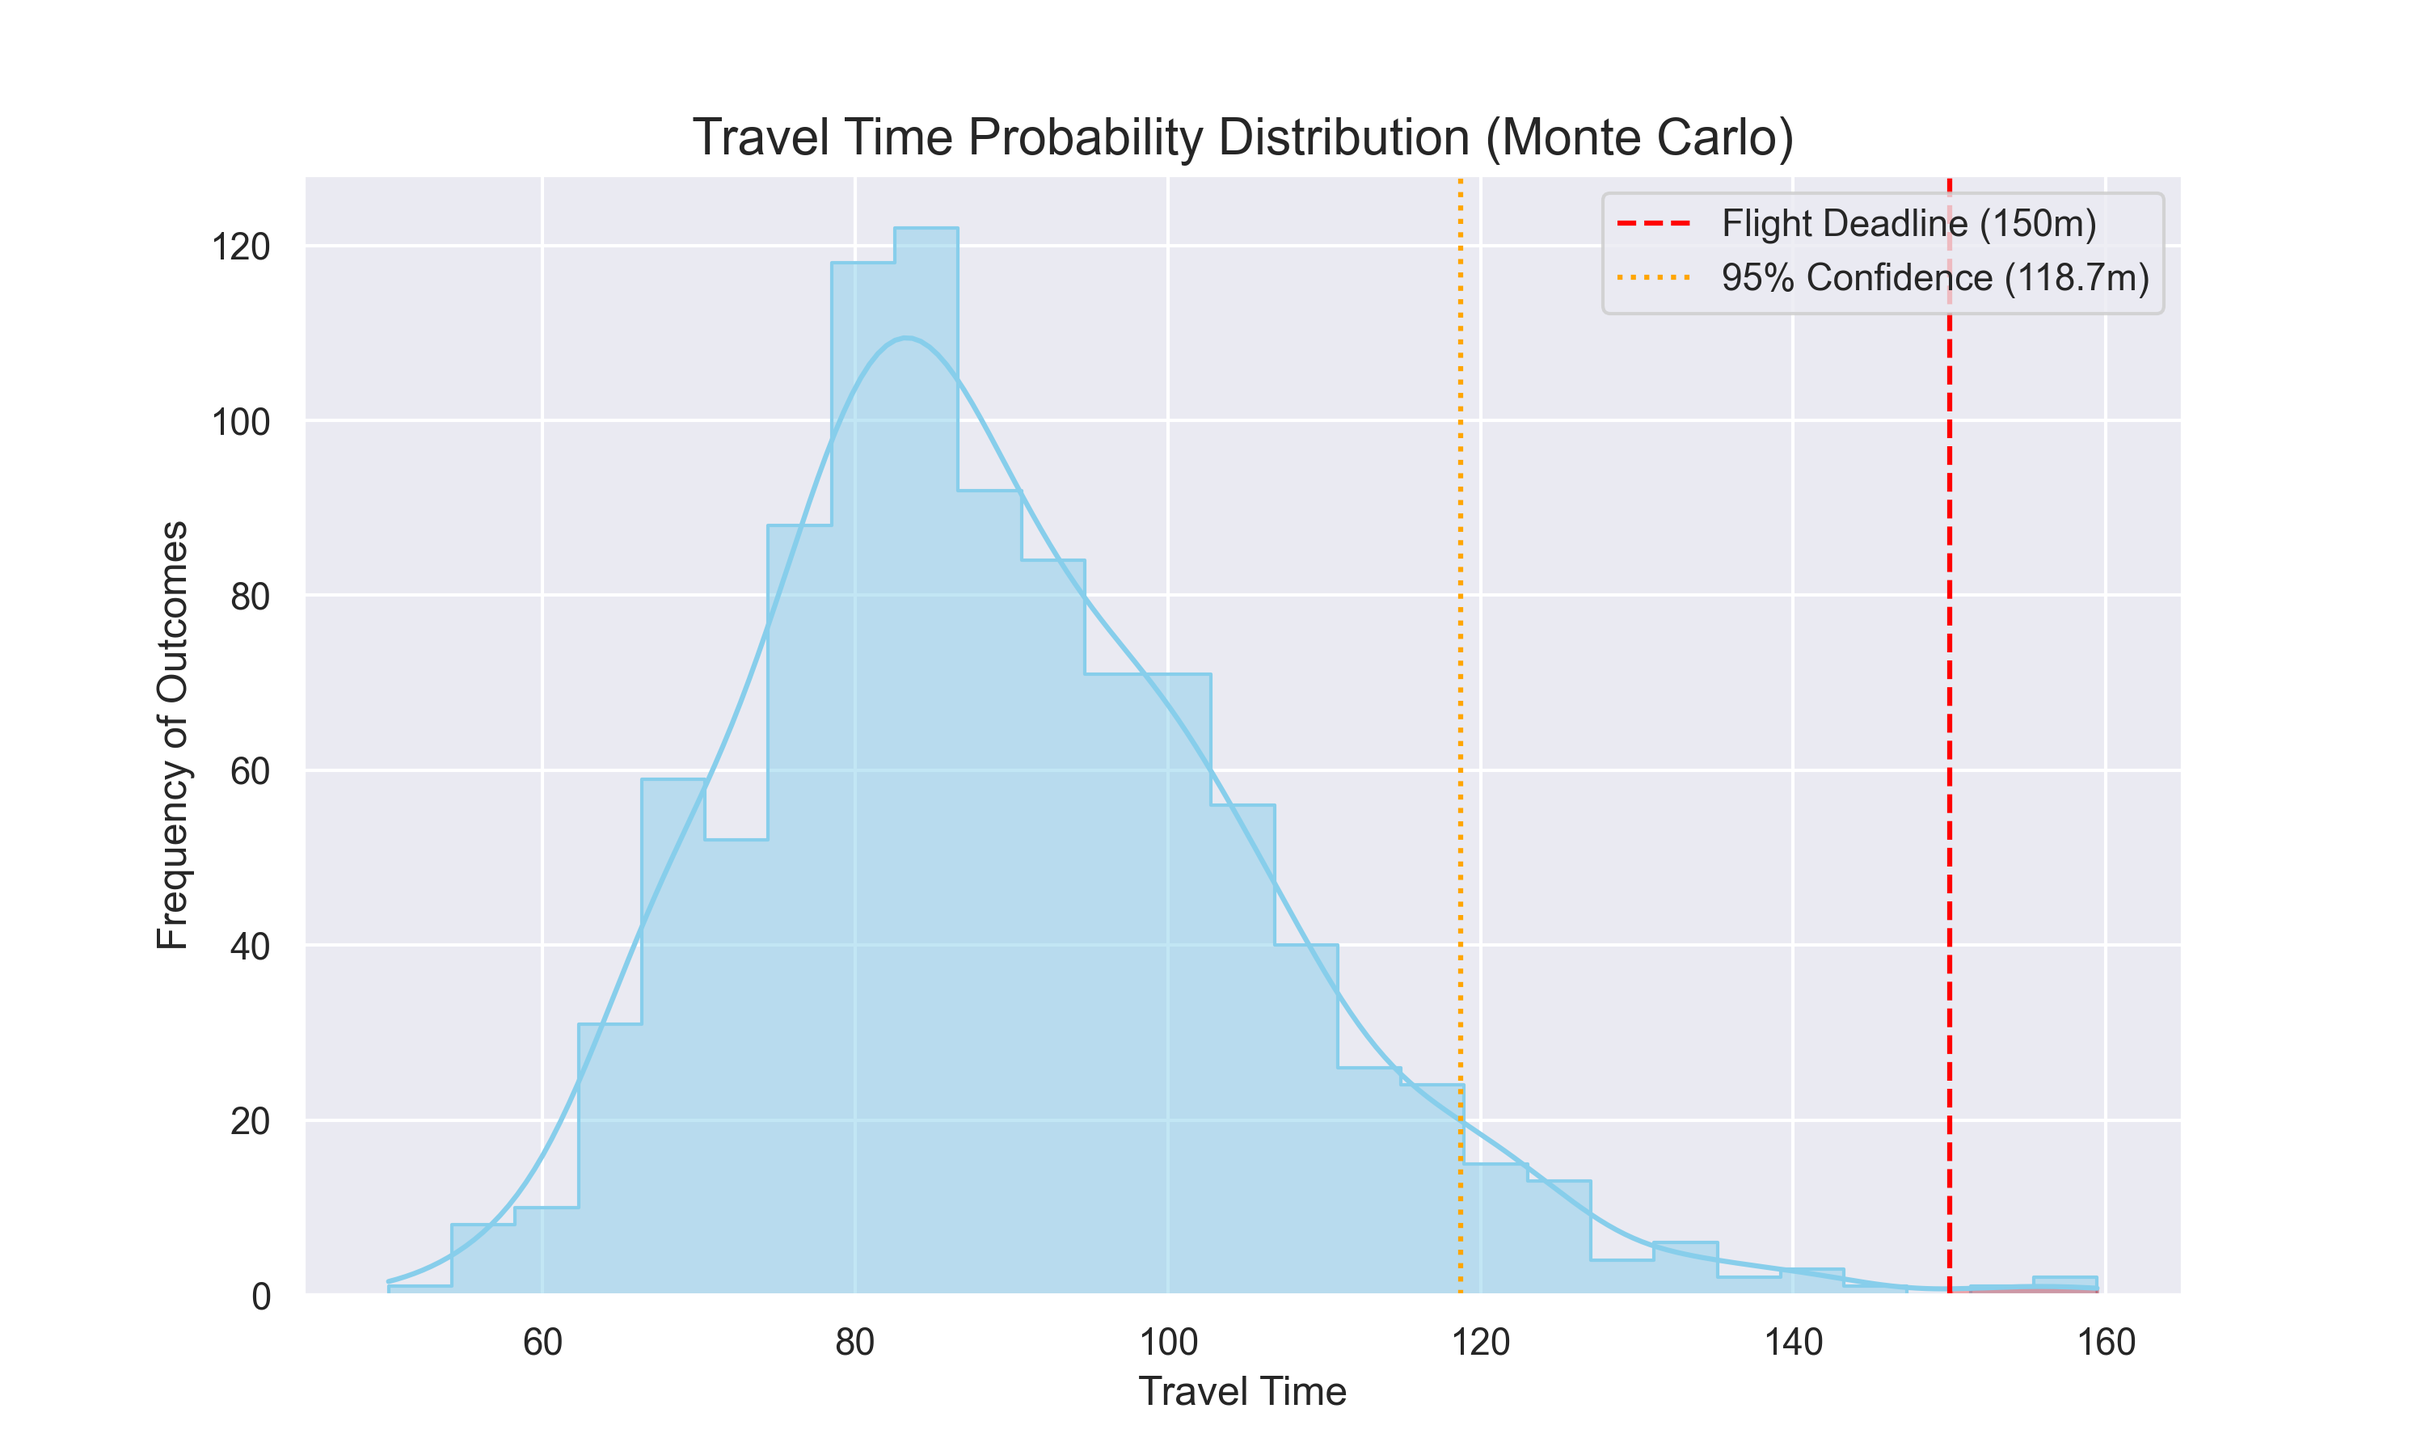
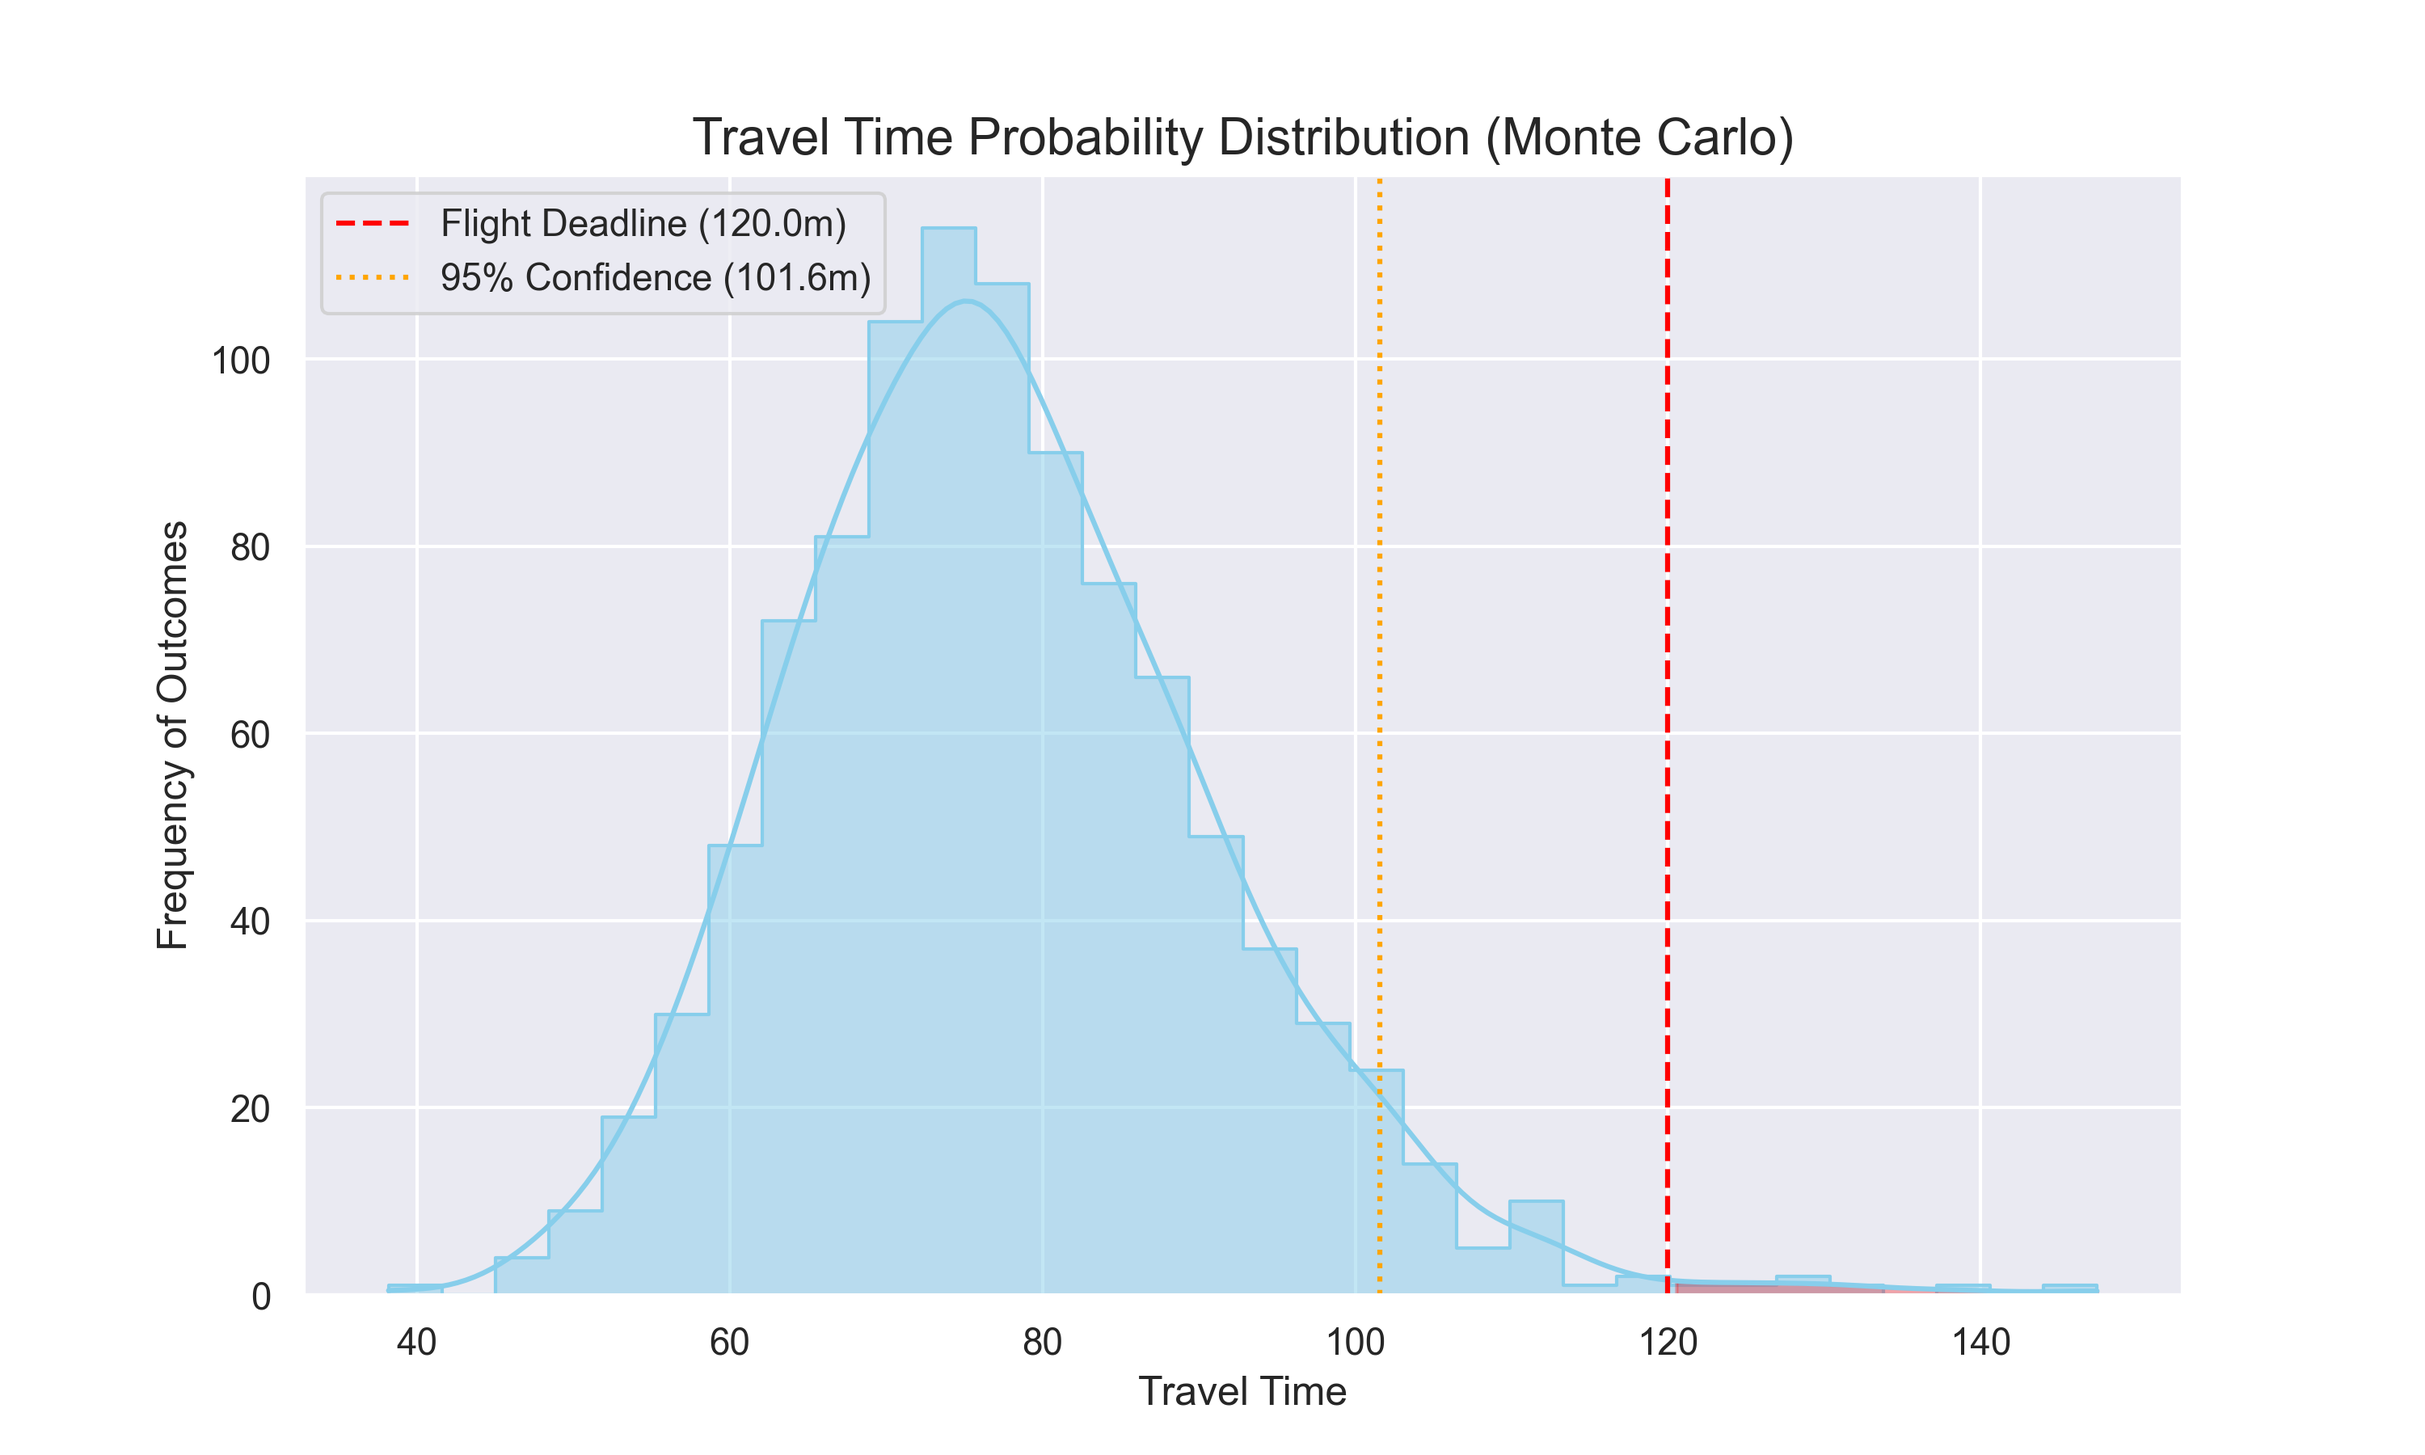
feat: implement backwards-search optimizer and real-world calibration

diff --git a/main.py b/main.py
@@ -2,22 +2,90 @@ import sys
 from traffic_engine import TrafficEngine
 from weather_engine import WeatherEngine
 from risk_engine import RiskEngine
-from airport_engine import AirportEngine  
+from airport_engine import AirportEngine
 from datetime import datetime, timedelta
 from visualizer import Visualizer
 
+
 def get_timestamp(days=0, hours=0, minutes=0):
-    # Generates a Unix timestamp for any point in the future.
+    # Generates a Unix timestamp for future travel simulation.
     future_date = datetime.now() + timedelta(days=days, hours=hours, minutes=minutes)
     return int(future_date.timestamp())
 
-def run_assessment(origin, destination, buffer_mins):
-    print(f"\n\033[94m[*] Initializing FlightRisk Assessment for {destination}...\033[0m")
-
-    # Define departure time (when you leave home).
-    scheduled_departure = get_timestamp(minutes=0) 
+def run_silent_assessment(origin, destination, departure_epoch, flight_epoch, has_bags, is_precheck):
+    # Runs a stripped-down simulation to find success probability without printing.
+    traffic = TrafficEngine()
+    weather = WeatherEngine()
+    risk = RiskEngine()
+    airport = AirportEngine()
     
-    # Initialize engines
+    # Calculate the minutes available for this specific test run.
+    total_buffer_mins = (flight_epoch - departure_epoch) / 60
+    
+    try:
+        # Fetch Traffic.
+        traffic_data = {}
+        for model in ["optimistic", "best_guess", "pessimistic"]:
+            traffic_data[model] = traffic.get_route(origin, destination, model, departure_time=departure_epoch)
+        
+        # Fetch Weather.
+        route_polyline = traffic_data['best_guess'].get('polyline')
+        weather_report = weather.get_route_weather(route_polyline)
+        
+        # Airport Processing.
+        drive_time_sec = traffic_data['best_guess']['seconds']
+        arrival_at_airport = departure_epoch + drive_time_sec
+        
+        # Simple airport code extractor.
+        target_airport = "JFK"
+        for key in ["LGA", "LAX", "EWR", "PBI", "BUR", "FLL", "RSW", "ISP"]:
+            if key in destination.upper(): target_airport = key
+
+        # Low iterations (500) for faster search performance.
+        airport_times = airport.get_total_airport_time(target_airport, arrival_at_airport, has_bags, is_precheck, iterations=500)
+
+        # Return Probability.
+        report = risk.evaluate_trip(traffic_data, weather_report, airport_times, total_buffer_mins)
+        return report['success_probability']
+    except:
+        return 0.0
+
+def find_optimal_departure(origin, destination, flight_time_epoch, has_bags, is_precheck):
+    # Searches the timeline for the Drop-Dead and Certainty windows.
+    print(f"\n\033[94m[*] Analyzing timeline for flight at {datetime.fromtimestamp(flight_time_epoch).strftime('%I:%M %p')}...\033[0m")
+    now = int(datetime.now().timestamp())
+    drop_dead_time = None
+    certainty_time = None
+    
+    # Scan from 5 hours before flight down to 45 mins before (10-min steps).
+    for mins_before in range(300, 45, -10):
+        test_dep = flight_time_epoch - (mins_before * 60)
+        
+        # Skip any time that is already in the past. 
+        if test_dep < now:
+            continue
+        prob = run_silent_assessment(origin, destination, test_dep, flight_time_epoch, has_bags, is_precheck)
+        
+        # Capture Drop-Dead Time (Success rises above 1%).
+        if drop_dead_time is None and prob > 1.0:
+            drop_dead_time = test_dep
+            print(f"    [!] Drop-Dead Moment: {datetime.fromtimestamp(drop_dead_time).strftime('%I:%M %p')}")
+
+        # Capture Certainty Time (Success hits 95%).
+        if certainty_time is None and prob >= 95.0:
+            certainty_time = test_dep
+            print(f"    [✓] Certainty Window: {datetime.fromtimestamp(certainty_time).strftime('%I:%M %p')}")
+            break # Optimization found.
+            
+    return certainty_time, drop_dead_time
+
+def run_assessment(origin, destination, departure_time, flight_time, has_bags, is_precheck, safe_time=None, dead_time=None):
+    # The full reporting engine with visualization and dashboard output.
+    buffer_mins = (flight_time - departure_time) / 60
+    
+    print(f"\n\033[94m[*] Generating Comprehensive Report for {destination}...\033[0m")
+
+    # Initialize engines.
     traffic = TrafficEngine()
     weather = WeatherEngine()
     risk = RiskEngine()
@@ -27,126 +95,119 @@ def run_assessment(origin, destination, buffer_mins):
         # Traffic and Weather simulation.
         traffic_data = {}
         for model in ["optimistic", "best_guess", "pessimistic"]:
-            res = traffic.get_route(origin, destination, model, departure_time=scheduled_departure)
-            if res is None:
-                raise ValueError(f"Traffic Engine failed to retrieve {model} data.")
+            res = traffic.get_route(origin, destination, model, departure_time=departure_time)
             traffic_data[model] = res
             
         route_polyline = traffic_data['best_guess'].get('polyline')
-        if not route_polyline:
-            raise ValueError("Could not retrieve route geometry for weather sampling.")
-        
         weather_report = weather.get_route_weather(route_polyline)
 
         # Airport Simulation.
-        print(f"\033[96m[*] Simulating Curb-to-Gate Time...\033[0m")
-        
-        # Estimate arrival at airport.
-        # This ensures the 'Time of Day' multiplier is accurate for when you actually walk in.
+        print(f"\033[96m[*] Calculating Curb-to-Gate Stochastic Model...\033[0m")
         drive_time_seconds = traffic_data['best_guess']['seconds']
-        est_arrival_at_airport = scheduled_departure + drive_time_seconds
+        est_arrival_at_airport = departure_time + drive_time_seconds
         
-        # Smart Airport Parser (Maps City/Keywords to Airport Codes).
+        # Smart Airport Parser.
         dest_upper = destination.upper()
-        target_airport = "JFK" # Default to a Tier 1 Hub if unknown (Safety Net).
-        
+        target_airport = "JFK" 
         keywords = {
-            # Tier 1 Hub.
-            "JFK": "JFK", "KENNEDY": "JFK", "NY": "JFK",
-            "LGA": "LGA", "LAGUARDIA": "LGA",
-            "EWR": "EWR", "NEWARK": "EWR",
-            "LAX": "LAX", "LOS ANGELES": "LAX",
-            "SFO": "SFO", "FRANCISCO": "SFO",
-            "ORD": "ORD", "OHARE": "ORD", "CHICAGO": "ORD",
-            "ATL": "ATL", "ATLANTA": "ATL",
-            "DFW": "DFW", "DALLAS": "DFW",
-            "DEN": "DEN", "DENVER": "DEN",
-            "MIA": "MIA", "MIAMI": "MIA",
-            "MCO": "MCO", "ORLANDO": "MCO",
-            "LAS": "LAS", "VEGAS": "LAS",
-            "SEA": "SEA", "SEATTLE": "SEA",
-            "BOS": "BOS", "LOGAN": "BOS", "BOSTON": "BOS",
-            "FLL": "FLL", "LAUDERDALE": "FLL", "HOLLYWOOD": "FLL", 
-            
-            # TIER 2 and 3.
-            "BUR": "BUR", "BURBANK": "BUR",
-            "PBI": "PBI", "PALM BEACH": "PBI",
-            "RSW": "RSW", "MYERS": "RSW", "SOUTHWEST": "RSW",
-            "ISP": "ISP", "ISLIP": "ISP", "MACARTHUR": "ISP"
+            "JFK": "JFK", "KENNEDY": "JFK", "LGA": "LGA", "EWR": "EWR", 
+            "LAX": "LAX", "SFO": "SFO", "ORD": "ORD", "ATL": "ATL", 
+            "MIA": "MIA", "MCO": "MCO", "FLL": "FLL", "BUR": "BUR", 
+            "PBI": "PBI", "RSW": "RSW", "ISP": "ISP"
         }
 
-        # Scan the destination string for any of these keywords.
         for key, code in keywords.items():
             if key in dest_upper:
                 target_airport = code
                 break
         
-        print(f"\033[96m    -> Detected Airport Profile: {target_airport}\033[0m")
+        # Execute Stochastic Modeling.
+        airport_processing_time = airport.get_total_airport_time(
+            airport_code=target_airport, 
+            epoch_time=est_arrival_at_airport, 
+            has_bags=has_bags, 
+            is_precheck=is_precheck, 
+            iterations=1000
+        )
 
-        # Run the simulation.
-        airport_processing_time = airport.get_total_airport_time(airport_code=target_airport, epoch_time=est_arrival_at_airport, has_bags=True, is_precheck=False, iterations=1000)
-
-        # Risk analysis.
+        # Risk Analysis.
         final_report = risk.evaluate_trip(traffic_data, weather_report, airport_processing_time, buffer_mins)
 
-        # Visualization.
-        display_dashboard(origin, destination, buffer_mins, final_report, scheduled_departure)
+        # Visualization and Dashboard.
+        display_dashboard(origin, destination, buffer_mins, final_report, departure_time, safe_time, dead_time)
 
-        print(f"\n\033[96m[*] Generating Risk Profile Graph...\033[0m")
+        print(f"\n\033[96m[*] Rendering Risk Profile Visualization...\033[0m")
         viz = Visualizer()
-        viz.plot_risk_profile(simulated_times=final_report['raw_data'], deadline=buffer_mins, p95_time=final_report['p95_eta'])
+        viz.plot_risk_profile(
+            simulated_times=final_report['raw_data'], 
+            deadline=buffer_mins, 
+            p95_time=final_report['p95_eta']
+        )
    
     except Exception as e:
         print(f"\n\033[91m[!] CRITICAL ERROR: {e}\033[0m")
 
-def display_dashboard(origin, dest, buffer, report, departure_time):
+def display_dashboard(origin, dest, buffer, report, departure_time, safe_time, dead_time):
+    # Prints the final data-driven summary to the terminal.
     readable_time = datetime.fromtimestamp(departure_time).strftime('%I:%M %p')
 
-    # ANSI Color Codes.
-    RESET = "\033[0m"
-    BOLD = "\033[1m"
-    RED = "\033[91m"
-    GREEN = "\033[92m"
-    YELLOW = "\033[93m"
-    
+    # Format the advice times
+    safe_str = datetime.fromtimestamp(safe_time).strftime('%I:%M %p') if safe_time else "N/A"
+    dead_str = datetime.fromtimestamp(dead_time).strftime('%I:%M %p') if dead_time else "N/A"
+
+    RESET, BOLD, GREEN, YELLOW, RED = "\033[0m", "\033[1m", "\033[92m", "\033[93m", "\033[91m"
     color = RED if report['risk'] in ["HIGH", "CRITICAL"] else GREEN
     
     print("\n" + "="*60)
-    print(f"{BOLD}FLIGHT-RISK TERMINAL v2.0 (DOOR-TO-GATE){RESET}".center(68))
+    print(f"{BOLD}FLIGHT-RISK TERMINAL v2.0 (INTELLIGENT){RESET}".center(68))
     print("="*60)
     print(f" ROUTE:     {origin} -> {dest}")
-    print(f" DEPARTURE: {readable_time}")
-    print(f" WINDOW:    {buffer} minutes total")
+    print(f" DEPARTURE: {readable_time} (Current Simulation)")
+    print(f" WINDOW:    {round(buffer, 1)} minutes total budget")
     print("-" * 60)
     
-    print(f"{BOLD}STATISTICAL ANALYSIS RESULTS:{RESET}")
+    print(f"{BOLD}STATISTICAL INSIGHTS:{RESET}")
     print(f"  - Weather Multiplier: {report['multiplier']}x")
     print(f"  - Avg Total Time:     {report['avg_eta']} mins")
     print(f"  - 95% Safe Arrival:   {report['p95_eta']} mins")
     print(f"  - Volatility (Std):   {report['std_dev']} mins")
     
-    # Highlight success prob metric.
     prob = report['success_probability']
     prob_color = GREEN if prob > 90 else YELLOW if prob > 75 else RED
     print(f"  - Success Probability: {BOLD}{prob_color}{prob}%{RESET}")
 
-    # Calculate Safety Margin.
     margin = report['buffer_remaining']
-    margin_sign = "+" if margin >= 0 else ""
     margin_color = GREEN if margin >= 15 else RED
-    print(f"  - Safety Margin:      {margin_color}{margin_sign}{margin} mins{RESET} (vs 95% Worst Case)")
+    print(f"  - Safety Margin:      {margin_color}{margin} mins{RESET} (vs 95% Safe)")
     
     print("-" * 60)
-    print(f" FINAL RISK STATUS: {BOLD}{color}{report['risk']}{RESET}")
+    print(f"{BOLD}LOGISTICS ADVICE:{RESET}")
+    print(f"  - {GREEN}Certainty Time:  {safe_str} (95% Probability){RESET}")
+    print(f"  - {RED}Drop-Dead Time:  {dead_str} (<1% Probability){RESET}")
+    print("-" * 60)
     
-    if report['risk'] != "LOW":
-        rec_time = abs(int(margin)) + 15
-        print(f"{RED}{BOLD} RECOMMENDATION: High risk of missing flight!{RESET}")
-        print(f"{RED} ADVICE: Leave {rec_time} mins earlier than planned.{RESET}")
-    else:
-        print(f"{GREEN} RECOMMENDATION: You are safe to leave at this time.{RESET}")
+    print(f" FINAL STATUS: {BOLD}{color}{report['risk']}{RESET} RISK")
     print("="*60 + "\n")
 
+# Interactive CLI.
 if __name__ == "__main__":
-    # Test Case
-    run_assessment("3160 Skillman Ave, Oceanside NY", "JFK", 150)
+    print("\n\033[1m" + "✈  FLIGHTRISK: PREDICTIVE LOGISTICS ENGINE" + "\033[0m")
+    
+    user_origin = input("Enter Home/Office Address: ")
+    user_dest = input("Enter Destination Airport: ") 
+    
+    print("\n[Travel Profile]")
+    has_bags = input("  Checking bags? (y/n): ").lower() == 'y'
+    is_precheck = input("  TSA PreCheck? (y/n): ").lower() == 'y'
+    
+    # Use current time (now) for the actual assessment
+    now_epoch = int(datetime.now().timestamp())
+    
+    # Set flight time (e.g., 2 hours from now)
+    flight_time = get_timestamp(hours=2)
+    
+    # Find the 'Safe' and 'Dead' times for advice.
+    safe_dep, dead_dep = find_optimal_departure(user_origin, user_dest, flight_time, has_bags, is_precheck)
+    
+    # Run assesment for now.
+    run_assessment(user_origin, user_dest, now_epoch, flight_time, has_bags, is_precheck)
